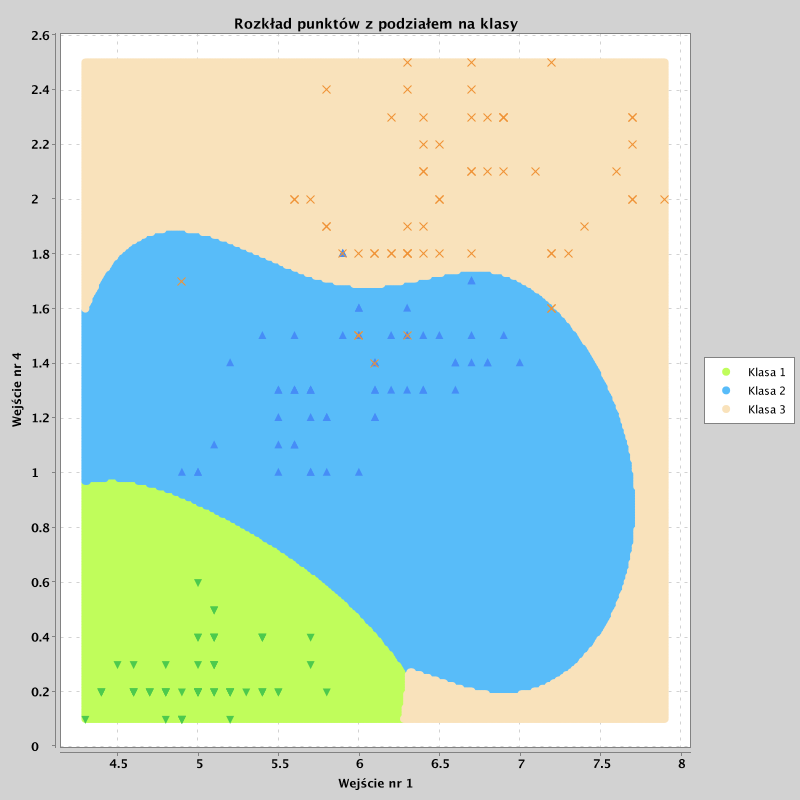
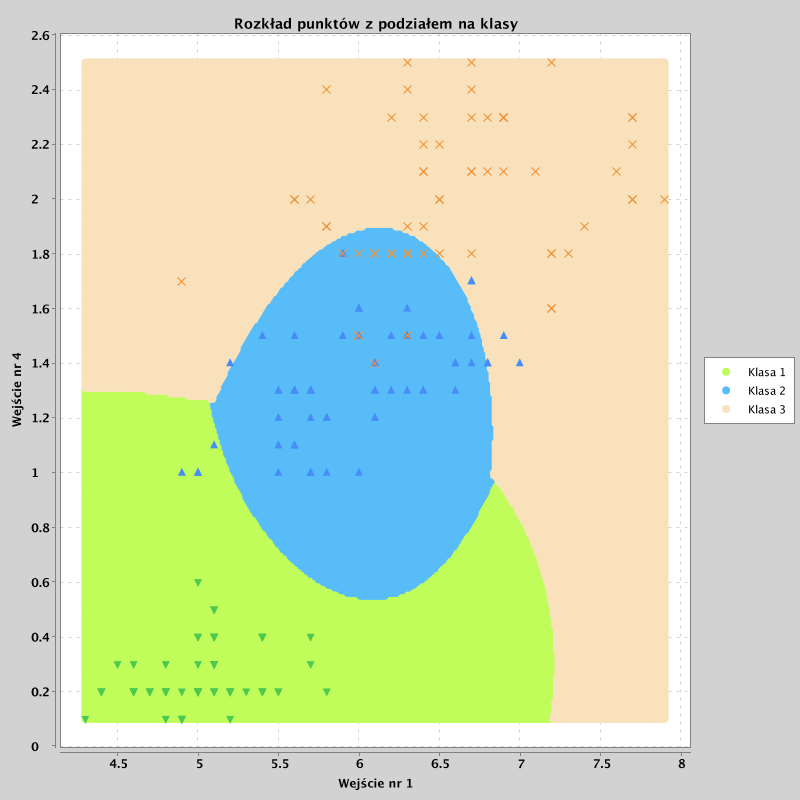
regenerate charts v2

Changed region(s): [[0.0938, 0.2812, 0.8125, 0.9062], [0.375, 0.7188, 0.4375, 0.75], [0.3438, 0.6875, 0.375, 0.7188]]

diff --git a/src/main/kotlin/tasks/classification/DecisionAreas.kt b/src/main/kotlin/tasks/classification/DecisionAreas.kt
@@ -117,7 +117,7 @@ class DecisionAreas : Classification() {
     }
 
 
-    val numRadialNeurons = 11
+    val numRadialNeurons = 6
     fun generateAllCombinations() {
         val asyncs = selectedCombinations.map { GlobalScope.async { singleChart(numRadialNeurons, it) }}
         runBlocking {
